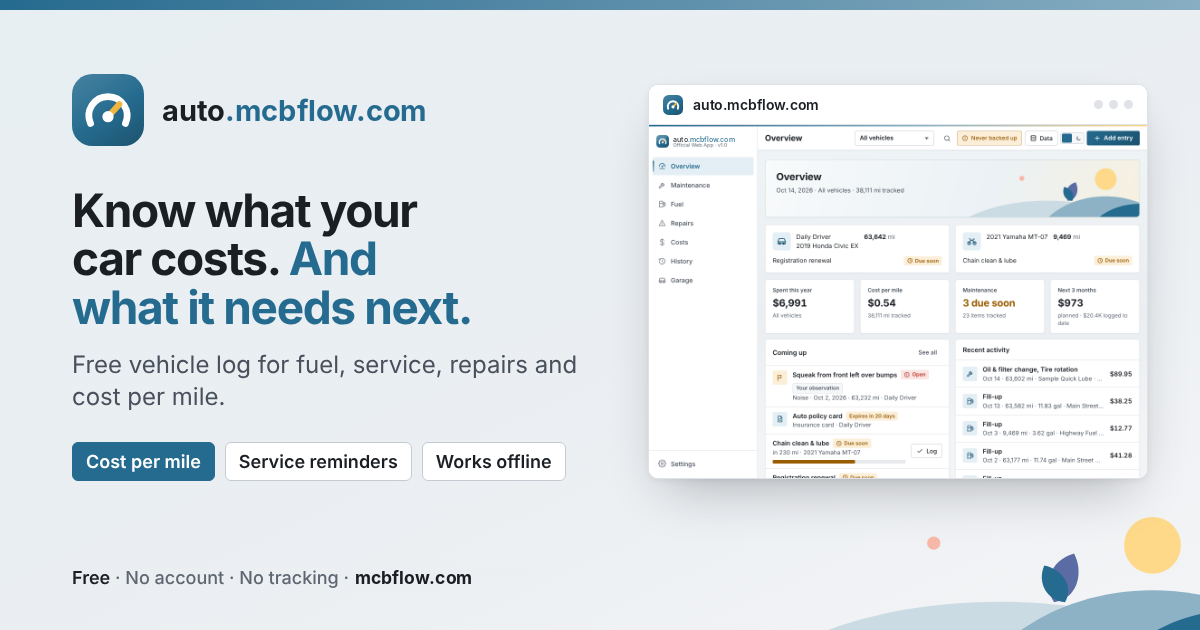
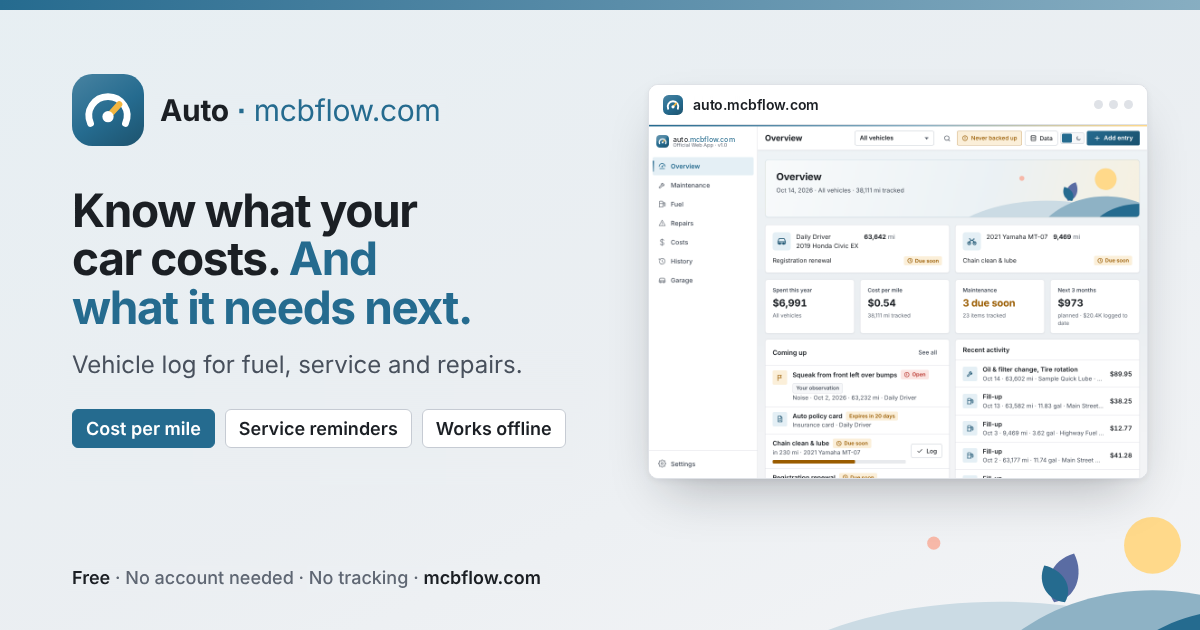
Add files via upload

Changed region(s): [[0.0617, 0.5429, 0.4933, 0.7841], [0.1233, 0.1508, 0.37, 0.2111], [0.185, 0.9048, 0.4625, 0.9349]]

diff --git a/index.html b/index.html
@@ -4,22 +4,22 @@
 <meta charset="utf-8">
 <meta name="viewport" content="width=device-width, initial-scale=1, viewport-fit=cover">
 <title>Auto | Home</title>
-<meta name="description" content="Free vehicle log for fuel, service, repairs and cost per mile, with reminders for what’s due next. No account. Your records stay on your device.">
+<meta name="description" content="Free vehicle log for fuel, service, repairs and cost per mile, with reminders for what’s due next. No account needed. Your records stay on your device.">
 <link rel="canonical" href="https://auto.mcbflow.com/">
 <meta name="theme-color" content="#256b8f">
 <meta http-equiv="Content-Security-Policy" content="default-src 'none'; script-src 'self' 'unsafe-inline'; connect-src https://rxvcjdwmvxhwbdwncfhj.supabase.co; style-src 'self' 'unsafe-inline'; img-src 'self' data: blob:; frame-src blob:; manifest-src 'self'; worker-src 'self'; base-uri 'none'; form-action 'none'">
 <meta name="referrer" content="no-referrer">
 <meta property="og:type" content="website">
 <meta property="og:site_name" content="auto.mcbflow.com">
-<meta property="og:title" content="auto.mcbflow.com: free vehicle log for fuel, service and cost per mile">
-<meta property="og:description" content="Free vehicle log for fuel, service, repairs and cost per mile, with reminders for what’s due next. No account. Your records stay on your device.">
+<meta property="og:title" content="Auto: Free vehicle log for fuel, service and cost per mile">
+<meta property="og:description" content="Free vehicle log for fuel, service, repairs and cost per mile, with reminders for what’s due next. No account needed. Your records stay on your device.">
 <meta property="og:url" content="https://auto.mcbflow.com/">
 <meta property="og:image" content="https://auto.mcbflow.com/og-image.png">
 <meta property="og:image:width" content="1200">
 <meta property="og:image:height" content="630">
-<meta property="og:image:alt" content="auto.mcbflow.com: a vehicle log showing cost per mile, fuel economy and maintenance due">
+<meta property="og:image:alt" content="Auto: A vehicle log showing cost per mile, fuel economy and maintenance due">
 <meta name="twitter:card" content="summary_large_image">
-<script type="application/ld+json">{"@context":"https://schema.org","@type":"WebApplication","name":"auto.mcbflow.com","alternateName":"Auto","url":"https://auto.mcbflow.com/","description":"Free vehicle log for fuel, service, repairs and cost per mile, with reminders for what's due next. No account. Your records stay on your device.","applicationCategory":"UtilitiesApplication","operatingSystem":"Any (runs in a web browser)","isAccessibleForFree":true,"offers":{"@type":"Offer","price":"0","priceCurrency":"USD"},"author":{"@type":"Person","name":"Matthew Broyer","url":"https://matthewbroyer.com/"}}</script>
+<script type="application/ld+json">{"@context":"https://schema.org","@type":"WebApplication","name":"auto.mcbflow.com","alternateName":"Auto","url":"https://auto.mcbflow.com/","description":"Free vehicle log for fuel, service, repairs and cost per mile, with reminders for what's due next. No account needed. Your records stay on your device.","applicationCategory":"UtilitiesApplication","operatingSystem":"Any (runs in a web browser)","isAccessibleForFree":true,"offers":{"@type":"Offer","price":"0","priceCurrency":"USD"},"author":{"@type":"Person","name":"Matthew Broyer","url":"https://matthewbroyer.com/"}}</script>
 <meta name="mobile-web-app-capable" content="yes">
 <meta name="apple-mobile-web-app-capable" content="yes">
 <meta name="apple-mobile-web-app-title" content="Auto">

diff --git a/404.html b/404.html
@@ -26,8 +26,8 @@ a:focus-visible{outline:2px solid var(--accent);outline-offset:2px;border-radius
 header{width:min(720px,100% - 32px);margin:0 auto;padding:20px 0 0}
 .brand{display:inline-flex;align-items:center;gap:10px;color:var(--ink);text-decoration:none;font-weight:650;font-size:16px}
 .brand svg{width:34px;height:34px;flex:none;border-radius:8px}
-.brand i{font-style:normal;font-weight:500;color:var(--accent)}
-.brand .sep{display:inline-block;margin:0 .32em 0 .34em;color:var(--muted);font-weight:400}
+.brand i{font-style:normal;font-weight:400;color:var(--accent)}
+.brand .sep{display:inline-block;margin:0 .32em 0 .34em;color:var(--accent);font-weight:700}
 main{flex:1;width:min(720px,100% - 32px);margin:18px auto 24px}
 .card{position:relative;overflow:hidden;background:var(--surface);border:1px solid var(--border);border-radius:8px;
  box-shadow:0 1px 2px rgba(20,24,31,.06),0 12px 32px -18px rgba(20,24,31,.28);padding:28px 28px 0}
